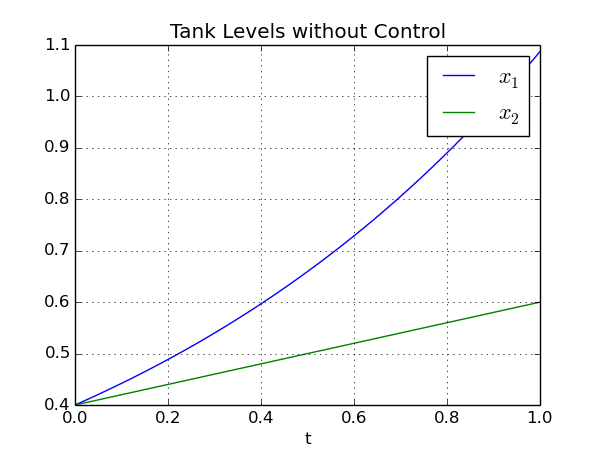
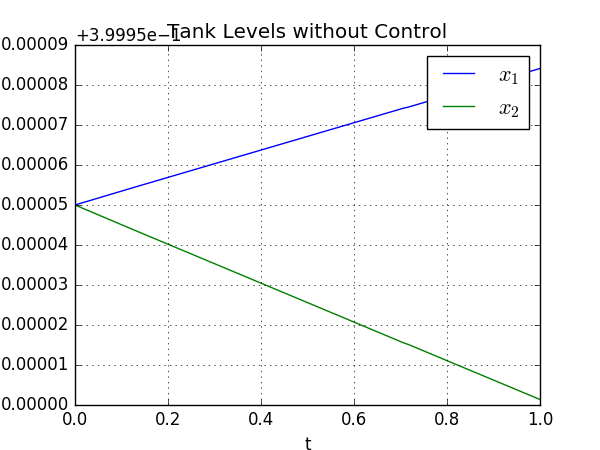
Fixing the model

diff --git a/francisco-topo/differential_eq.py b/francisco-topo/differential_eq.py
@@ -20,18 +20,13 @@ def francisco_model(l,t,q):
   mu32 = 0.5
   W = math.sqrt(2*9.81)
   g = 9.81
-  
-  f = [L1,
-      Q1 - u13*sn*np.sign(L1-L3)*math.sqrt(2*g*(L1-L3)),
-      L2,
+
+  f = [Q1 - u13*sn*np.sign(L1-L3)*math.sqrt(2*g*(L1-L3)),
       Q2 + u32*sn*np.sign(L3-L2)*math.sqrt(abs(2*g*(L3-L2)))  - u20*sn*math.sqrt(2*g*L2),
-      L3,
       u13*sn*np.sign(L1-L3)*math.sqrt(2*g*(L1-L3)) - u32*sn*np.sign(L3-L2)*math.sqrt(abs(2*g*(L3-L2)))
       ]
-      
-      
   return f
-  
+
 s = 0.0154
 sn = 5e-5
 u13 = 0.5
@@ -53,8 +48,8 @@ abserr = 1.0e-8
 relerr = 1.0e-6
 
 t = np.linspace(start=0, stop=1, num=100)
-Q1 = mu13*sn*math.sqrt(2*g*(Y10-Y30));
-Q2 = mu20*sn*math.sqrt(2*g*Y20)-mu32*sn*math.sqrt(2*g*(Y30-Y20));
+Q1 = mu13*sn*math.sqrt(2*g*(Y10-Y30))
+Q2 = mu20*sn*math.sqrt(2*g*Y20)-mu32*sn*math.sqrt(2*g*(Y30-Y20))
 q = [Q1, Q2]
 l0 = [0.400, 0.200, 0.400]
 wsol = odeint(francisco_model, l0, t, args=(q,),atol=abserr, rtol=relerr)
@@ -64,4 +59,4 @@ wsol = odeint(francisco_model, l0, t, args=(q,),atol=abserr, rtol=relerr)
 
 # Print the solution.
 for t1, w1 in zip(t, wsol):
- print t1, w1[0], w1[1], w1[2]
+    print t1, w1[0], w1[1], w1[2]

diff --git a/francisco-topo/physical_process.py b/francisco-topo/physical_process.py
@@ -38,8 +38,8 @@ class RawWaterTank(Tank):
 		self.L1= 0.4
 		self.L2=0.2
 		self.L3=0.3
-		self.Q1 = mu13*sn*math.sqrt(abs(2*g*(Y10-Y30)));	
-		self.Q2 = mu20*sn*math.sqrt(2*g*Y20)-mu32*sn*math.sqrt(abs(2*g*(Y30-Y20)));
+		self.Q1 = mu13*sn*math.sqrt(abs(2*g*(Y10-Y30)))
+		self.Q2 = mu20*sn*math.sqrt(2*g*Y20)-mu32*sn*math.sqrt(abs(2*g*(Y30-Y20)))
 
 		# Writes values in the database
 		self.set(Q101, self.Q1)
@@ -59,7 +59,7 @@ class RawWaterTank(Tank):
 	def main_loop(self):
 		count = 0
 		logging.debug('starting simulation')
-		t = np.linspace(start=0, stop=1, num=100)	
+		t = np.linspace(start=0, stop=1, num=100)
 
 
 		while(count <= PP_SAMPLES):
@@ -81,7 +81,6 @@ class RawWaterTank(Tank):
 			self.set(LIT101, self.l[0])
 			self.set(LIT102, self.l[1])
 			self.set(LIT103, self.l[2])
-			
 			count += 1
 			time.sleep(PP_PERIOD_SEC)
 

diff --git a/francisco-topo/plc101.py b/francisco-topo/plc101.py
@@ -214,8 +214,8 @@ class PLC101(PLC):
 		self.q1 = self.current_inc_i[0]
 		self.q2 = self.current_inc_i[1]
 
-        self.send_message(IP['q101'], 7842 ,float(self.q1))
-        self.send_message(IP['q102'], 7842 ,float(self.q1))
+                self.send_message(IP['q101'], 7842 ,float(self.q1))
+                self.send_message(IP['q102'], 7842 ,float(self.q1))
 		#self.send(Q101, float(self.q1), IP['plc101'])
 		#self.send(Q102, float(self.q2), IP['plc101'])
 
